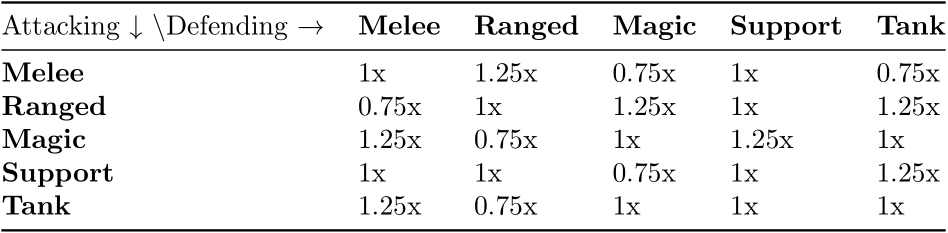
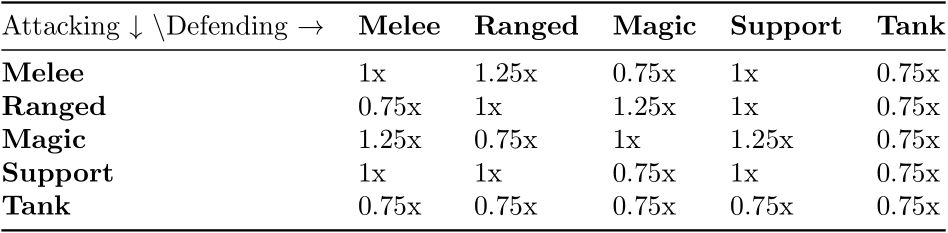
Tank Puff (battle wip)

diff --git a/src/helpers/battlefunctions.py b/src/helpers/battlefunctions.py
@@ -1,3 +1,6 @@
+from ast import List
+from turtle import pos
+import types
 from typing import Sequence, final
 from helpers.flags import DEBUG, MONEY_FROM_WIN
 from sqlite3 import connect
@@ -7,10 +10,10 @@ from main import round_int
 
 effectivenessChart: dict[str, dict[str, float]] = {
     "Melee": {"Melee": 0, "Ranged": .25, "Magic": -.25, "Support": 0, "Tank": -.25},
-    "Ranged": {"Melee": -.25, "Ranged": 0, "Magic": .25, "Support": 0, "Tank": .25},
-    "Magic": {"Melee": .25, "Ranged": -.25, "Magic": 0, "Support": .25, "Tank": 0},
-    "Support": {"Melee": 0, "Ranged": 0, "Magic": -.25, "Support": 0, "Tank": .25},
-    "Tank": {"Melee": .25, "Ranged": -.25, "Magic": 0, "Support": 0, "Tank": 0}
+    "Ranged": {"Melee": -.25, "Ranged": 0, "Magic": .25, "Support": 0, "Tank": -.25},
+    "Magic": {"Melee": .25, "Ranged": -.25, "Magic": 0, "Support": .25, "Tank": -.25},
+    "Support": {"Melee": 0, "Ranged": 0, "Magic": -.25, "Support": 0, "Tank": -.25},
+    "Tank": {"Melee": -.25, "Ranged": -.25, "Magic": -.25, "Support": -.25, "Tank": -.25}
 }
 
 foodChart: dict[str, list[list[int]]] = {
@@ -74,6 +77,22 @@ class TankDamage(DamageType):
     def __init__(self):
         super().__init__("Tank")
 
+class BlankDamage(DamageType):
+    def __init__(self):
+        super().__init__("Blank")
+
+def heal(self, target):
+    heal_amt = self.health * 0.75
+    for puff in target:
+        target.health += heal_amt
+    return f"{self.name} heals {target.name} for {heal_amt} health!"
+
+SPECIAL_ABILITIES = {
+    "Fairy Puff": {
+        "buff": heal,
+    },
+}
+
 typeChart = {
     "melee": MeleeDamage,
     "ranged": RangedDamage,
@@ -95,6 +114,14 @@ class Puff:
         self.defense = data[4]
         self.defensePenetration = data[5]
         self.trueDefense = data[6]
+        self.special_abilities = SPECIAL_ABILITIES.get(name, {})
+    
+    def use_special_ability(self, attack_name: str, target: list):
+        if self.special_abilities:
+            ability = self.special_abilities.get(attack_name, None)
+            if ability:
+                return ability(self, target)
+        return None
 
 class LineupPuff(Puff):
     def __init__(self, name: str, data: Sequence[int|float], databuff: list[int], owner: int, types: list[DamageType], level=0):
@@ -175,13 +202,14 @@ def get_puffs_for_battle(puff_names: list[str], user_id: int, buffs: dict[str, s
             for stat in range(len(foodChart.get(buff, [])[0])):
                 if forlineupfunc: databuff[foodChart[buff][0][stat]] += foodChart[buff][1][stat]
                 else: data[foodChart[buff][0][stat]] += foodChart[buff][1][stat]
-        if not forlineupfunc: del buffs[puff_names[puff]]
         types = puff_data[puff][1].split(";")
+        if not forlineupfunc and puff_names[puff] in buffs: del buffs[puff_names[puff]]
         typeList = []
         if DEBUG: print(f"Original Types: {types}")
         for type in types:
             try: typeList.append(typeChart[type]())
             except: continue
+        if len(typeList) == 1: typeList.append(BlankDamage())
         if DEBUG: print(f"Final Types: {typeList}")
         if forlineupfunc:
             final_data.append(
@@ -261,7 +289,7 @@ def get_owned(user_id: int) -> dict[str, int]:
     conn.close()
     return unpack_info(packedStats) # type: ignore
 
-def battle(puff1: Puff, puff2: Puff) -> tuple[str, int]:
+def battle(puff1: Puff | LineupPuff, puff2: Puff | LineupPuff, context1: Sequence[Puff | LineupPuff], context2: Sequence[Puff | LineupPuff]) -> tuple[Sequence[str | int], Sequence[Puff | LineupPuff], Sequence[Puff | LineupPuff]]:
     """
     This Python function simulates a battle between two Puff objects by reducing their health based on
     their attack values until one of them wins or it's a draw.
@@ -278,6 +306,29 @@ def battle(puff1: Puff, puff2: Puff) -> tuple[str, int]:
     - If both `puff1` and `puff2` have health less than or equal to 0, it returns "⚔ It's a draw!
     (puff1.name vs puff2.name)"
     """
+    events = []
+    tank1 = []
+    tank2 = []
+    ranged1 = []
+    ranged2 = []
+    support1 = []
+    support2 = []
+    pos1 = context1.index(puff1)
+    pos2 = context2.index(puff2)
+    for _ in range(len(context1)):
+        if context1[_].types[0].type == "Tank" or context1[_].types[1].type == "Tank":
+            tank1.append(_) # Only adds indexes for references instead of copying
+        if context1[_].types[0].type == "Ranged" or context1[_].types[1].type == "Ranged":
+            ranged1.append(_)
+        if context1[_].types[0].type == "Support" or context1[_].types[1].type == "Support":
+            support1.append(_)
+    for _ in range(len(context2)):
+        if context2[_].types[0].type == "Tank" or context2[_].types[1].type == "Tank":
+            tank2.append(_)
+        if context2[_].types[0].type == "Ranged" or context2[_].types[1].type == "Ranged":
+            ranged2.append(_)
+        if context2[_].types[0].type == "Support" or context2[_].types[1].type == "Support":
+            support2.append(_)
     while puff1.health > 0 and puff2.health > 0:
         if DEBUG:
             print(f"{puff1.name} ({puff1.health}) vs {puff2.name} ({puff2.health})\nOpponent: {puff1.owner} vs {puff2.owner}")
@@ -286,10 +337,16 @@ def battle(puff1: Puff, puff2: Puff) -> tuple[str, int]:
         # Owner's puff attacks first
         attack = 0
         typeBuff = 0
+        for puff in support1:
+            puff.use_special_ability("buff", context1)
         if chance <= puff1.critChance:
             attack = puff1.attack * (puff1.critDmg*.10 + 1)
+            events.append(f"{puff1.name} crits {puff2.name} for {attack} damage!")
         else:
             attack = puff1.attack
+        for rangedpuff in range(len(ranged1)):
+            if puff1 == context1[ranged1[rangedpuff]]: continue
+            attack += context1[ranged1[rangedpuff]].attack * (.9 + (.1*(ranged1[rangedpuff]-pos1)))
         SafeDmg= attack * puff1.defensePenetration# Dmg safe from normal def
         DefendableDmg = (attack-SafeDmg)*(1-(puff2.defense*.01))
         attack = SafeDmg + DefendableDmg - puff2.trueDefense
@@ -298,14 +355,34 @@ def battle(puff1: Puff, puff2: Puff) -> tuple[str, int]:
                 typeBuff += effectivenessChart[type.type][puff2.types[0].type]
                 typeBuff += effectivenessChart[type.type][puff2.types[1].type]
             except: continue
+        attack = attack * (1 + typeBuff) # Buffs the attack based on the type effectiveness
+        if (len(tank2) > 0 and (puff2.types[0].type != "Tank" or puff2.types[1].type != "Tank")):
+            attack = attack / (len(tank2)+1)
+            for tank in tank2:
+                context2[tank].health -= attack*.75
+                if context2[tank].health <= 0:
+                    context2[tank].health = 0
+                    events.append(f"{context2[tank].name} has fainted!")
+        elif (len(tank2) > 1 and (puff2.types[0].type == "Tank" or puff2.types[1].type == "Tank")):
+            attack = attack / (len(tank2))
+            for tank in tank2:
+                context2[tank].health -= attack*.75
+                if context2[tank].health <= 0:
+                    context2[tank].health = 0
+                    events.append(f"{context2[tank].name} has fainted!")
         puff2.health -= attack
         # Opponent's puff attacks next
         attack = 0 # Resets for next calculation
         typeBuff = 0
+        for puff in support2:
+            puff.use_special_ability("buff", context2)
         if chance <= puff2.critChance:
             attack = puff2.attack * (puff2.critDmg*.10 + 1)
         else:
             attack = puff2.attack
+        for rangedpuff in range(len(ranged2)):
+            if puff2 == context2[ranged2[rangedpuff]]: continue
+            attack += context2[ranged2[rangedpuff]].attack * (.9 + (.1*(ranged2[rangedpuff]-pos2)))
         SafeDmg= attack * puff2.defensePenetration
         DefendableDmg = (attack-SafeDmg)*(1-(puff1.defense*.01))
         attack = SafeDmg + DefendableDmg - puff1.trueDefense
@@ -314,16 +391,32 @@ def battle(puff1: Puff, puff2: Puff) -> tuple[str, int]:
                 typeBuff += effectivenessChart[type.type][puff2.types[0].type]
                 typeBuff += effectivenessChart[type.type][puff2.types[1].type]
             except: continue
+        attack = attack * (1 + typeBuff) # Buffs the attack based on the type effectiveness
+        if (len(tank1) > 0 and (puff2.types[0].type != "Tank" or puff2.types[1].type != "Tank")):
+            attack = attack / (len(tank1)+1)
+            for tank in tank1:
+                context1[tank].health -= attack*.75
+                if context1[tank].health <= 0:
+                    context1[tank].health = 0
+                    events.append(f"{context1[tank].name} has fainted!")
+        elif (len(tank1) > 1 and (puff2.types[0].type == "Tank" or puff2.types[1].type == "Tank")):
+            attack = attack / (len(tank1))
+            for tank in tank1:
+                context1[tank].health -= attack*.75
+                if context1[tank].health <= 0:
+                    context1[tank].health = 0
+                    events.append(f"{context1[tank].name} has fainted!")
         puff1.health -= attack
         if DEBUG:
             print(f"After a fight: Puff1: {puff1.health}, Puff2: {puff2.health}")
         if puff1.health <= 0 and puff2.health <= 0:
-            return f"⚔ It's a draw! ({puff1.name} vs {puff2.name})", 0
+            events.extend([f"⚔ It's a draw! ({puff1.name} vs {puff2.name})", 0])
         if puff2.health <= 0:
-            return f"🏅 {puff1.name} wins! (Lvl {puff1.level}) - <@{puff1.owner}>", 1
+            events.extend([f"🏅 {puff1.name} wins! (Lvl {puff1.level}) - <@{puff1.owner}>", 1])
         if puff1.health <= 0:
-            return f"🏅 {puff2.name} wins! (Lvl {puff2.level}) - <@{puff2.owner}>", -1
-    return f"⚔ It's a draw! ({puff1.name} vs {puff2.name})", 0 # Catch all
+            events.extend([f"🏅 {puff2.name} wins! (Lvl {puff2.level}) - <@{puff2.owner}>", -1])
+    return events, context1, context2 # Catch all
+    # Change to return a list of events that has happened with score at the end and the new context lists
 
 def finalize_battle(winner: int, loser: int) -> None:
     conn = connect("assets\\database\\users.db") if os_name == "nt" else connect("assets/database/users.db")

diff --git a/src/main.py b/src/main.py
@@ -1497,6 +1497,7 @@ class BattleConfirmView(discord.ui.View):
         if self.result is None:
             self.stop()
 
+'''
 class NPCBattling(discord.ui.View):
     def __init__(self, user, lineup):
         super().__init__(timeout=flags.SETTINGS_EXPIRY)
@@ -1575,6 +1576,7 @@ class NPCBattling(discord.ui.View):
     @discord.ui.button(label="Hard", style=discord.ButtonStyle.danger)
     async def hard(self, interaction: discord.Interaction, button: discord.ui.Button):
         await self.generate_embed(interaction, "hard")
+'''
 
 @bot.tree.command(name="battle", description="Battle another user!")
 @discord.app_commands.check(is_banned_user)
@@ -1683,11 +1685,12 @@ async def battle_command(interaction: discord.Interaction, opponent: discord.Mem
     scores = []
     for u_puff, o_puff in zip(user_puffs, opponent_puffs):
         try:
-            result_battle, score = battlefunctions.battle(u_puff, o_puff)
-            results.append(result_battle)
-            scores.append(score)
+            events, user_puffs, opponent_puffs  = battlefunctions.battle(u_puff, o_puff, user_puffs, opponent_puffs)
+            results.extend(events)
+            scores.append(results.pop())
         except AttributeError:
             results.append("The program broke here, please notify the developer"); scores.append(0)
+            raise
     overall_score = round_int(mean(scores))
     color = weightedColor.get(overall_score)
     winner = interaction.user.display_name

diff --git a/src/helpers/flags.py b/src/helpers/flags.py
@@ -17,11 +17,11 @@ BUTTON_PAGE_EXPIRY = 60
 ITEMS_PER_PAGE = 5
 SETTINGS_EXPIRY = 60
 ASCENSION_MAX = 10
-AVATAR_PATH = str(Path("assets/puffs/luna.png")) # This and banner to be used when setting it as a gif
-BANNER_FILE = "banner_demon.gif"
+AVATAR_PATH = str(Path("assets/puffs/sleepy.png")) # This and banner to be used when setting it as a gif
+BANNER_FILE = "banner_tank.gif"
 BANNER_NAME = BANNER_FILE.split('_')[1].split('.')[0].capitalize() + " Puff"  # Extract name from banner file
-BANNER_START = "4/2/2025"
-BANNER_END = "5/1/2025"
+BANNER_START = "5/2/2025"
+BANNER_END = "6/1/2025"
 IMAGE_PATH = f"https://raw.githubusercontent.com/{GIT_USERNAME}/{GIT_REPO}/refs/heads/main/src/assets/"
 RARITY_WEIGHTS = [.887, .083, .03]
 LIMITED_WEIGHTS = [.8, .2]

diff --git a/README.md b/README.md
@@ -4,7 +4,7 @@ Strawberry Puff Bot is a Discord gacha bot designed to enhance your server exper
 
 ## Current Banner
 
-![Latest Banner](src/assets/profile/banner_demon.gif)
+![Latest Banner](src/assets/profile/banner_tank.gif)
 
 ## Features
 
